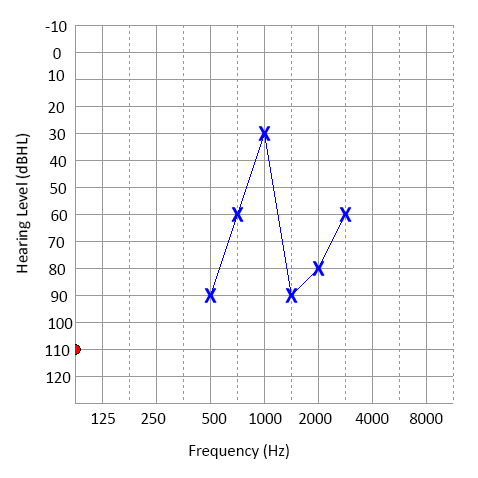
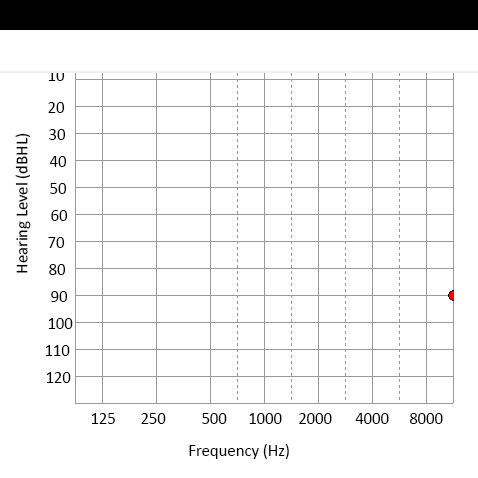
added update feature completely

diff --git a/template/export.html b/template/export.html
@@ -151,11 +151,11 @@
       <div class="personal-details">
         <div class="row-1">
           <div>Name:</div>
-          <div class="values">sdfsaf</div>
+          <div class="values">Himanshu</div>
           <div>Age/Gender:</div>
-          <div class="values">dsopfjk - fasdfj</div>
+          <div class="values">0 - fasdfj</div>
           <div>Date:</div>
-          <div class="values">2021-01-05</div>
+          <div class="values">2021-01-06</div>
           <div>Case No:</div>
           <div class="values">1</div>
         </div>
@@ -187,8 +187,8 @@
                 <td>Left<br />&nbsp;</td>
               </tr>
               <tr>
-                <td rowspan="2">dsaJF</td>
-                <td rowspan="2">hsuidhg</td>
+                <td rowspan="2">0</td>
+                <td rowspan="2">0</td>
               </tr>
             </table>
           </div>
@@ -202,13 +202,13 @@
               </tr>
               <tr>
                 <td>Rinne</td>
-                <td>quhfe</td>
-                <td>u</td>
+                <td>0</td>
+                <td>0</td>
               </tr>
               <tr>
                 <td>Weber</td>
-                <td>d</td>
-                <td>das</td>
+                <td>0</td>
+                <td>0</td>
               </tr>
             </table>
           </div>
@@ -224,17 +224,17 @@
               </tr>
               <tr>
                 <td>Right</td>
-                <td>das</td>
-                <td>da</td>
-                <td>dasd</td>
-                <td>dasd</td>
+                <td>0</td>
+                <td>0</td>
+                <td>00</td>
+                <td>00</td>
               </tr>
               <tr>
                 <td>Left</td>
-                <td>dq</td>
-                <td>da</td>
+                <td>0</td>
+                <td>0</td>
                 <td>vl-wrs^</td>
-                <td>da</td>
+                <td>00</td>
               </tr>
             </table>
           </div>

diff --git a/main.py b/main.py
@@ -9,6 +9,7 @@ from selenium import webdriver
 from selenium.webdriver.common.keys import Keys
 import mysql.connector
 import json
+import time
 
 conn = mysql.connector.connect(host='localhost', user='root', password='', database='ascending_audiology')
 cursor = conn.cursor()
@@ -194,18 +195,28 @@ def MainWindow(opened=False, openedData={}):
     ov_size = (6, 6)
 
 
-    for i in range(0, Y, GRID):
+    for i in range(0, Y+GRID, GRID):
         c.create_line(0, i, X, i, fill='#999')
-    for i in range(0, X, GRID):
-        if (i%2==0 and i != 0):
+    for i in range(0, X+GRID, GRID):
+        if (i % 2 == 0 and i != 0):
+            if i < 150:
+                continue
+            if i > 350:
+                c.create_line(i, 0, i, Y, fill="#999")
+                continue
             c.create_line(i, 0, i, Y, dash=(1,1), fill='#999')
         else:
             c.create_line(i, 0, i, Y, fill='#999')
 
-    for i in range(0, Y+GRID, GRID):
+    for i in range(0, Y + GRID, GRID):
         c2.create_line(0, i, X, i, fill='#999')
     for i in range(0, X+GRID, GRID):
         if (i%2==0 and i != 0):
+            if i < 150:
+                continue
+            if i > 350:
+                c2.create_line(i, 0, i, Y, fill="#999")
+                continue
             c2.create_line(i, 0, i, Y, dash=(1,1), fill='#999')
         else:
             c2.create_line(i, 0, i, Y, fill='#999')
@@ -574,6 +585,8 @@ def MainWindow(opened=False, openedData={}):
 
 
     def take_ss():
+        my_canvas.yview_moveto(float(0))
+        time.sleep(2)
         box = (le_graph_frame.winfo_rootx(),le_graph_frame.winfo_rooty(),le_graph_frame.winfo_rootx()+le_graph_frame.winfo_width(),le_graph_frame.winfo_rooty() + le_graph_frame.winfo_height())
         box2 = (re_graph_frame.winfo_rootx(), re_graph_frame.winfo_rooty(), re_graph_frame.winfo_rootx() + re_graph_frame.winfo_width(), re_graph_frame.winfo_rooty() + re_graph_frame.winfo_height())
         c.itemconfigure('le_point', state='hidden')
@@ -748,7 +761,7 @@ def MainWindow(opened=False, openedData={}):
     curr_date = datetime.today().strftime('%Y-%m-%d')
 
     def submit_form():
-        take_ss()
+        take_ss()   
         with open('template/pdf.html', 'r') as f:
             html_file = f.read()
         html_file = html_file.replace('^name^', name.get())
@@ -787,14 +800,63 @@ def MainWindow(opened=False, openedData={}):
         driver.get('E:\\projects\\ascending_audiology\\template\\export.html')
         driver.maximize_window()
         driver.execute_script('window.print()')
+        # img = Image.open(BytesIO(driver.find_element_by_tag_name('body').screenshot_as_png))
+        # img.save('filename.pdf', "PDF", quality=100)
+    
+    def update_form():
+        take_ss()   
+        with open('template/pdf.html', 'r') as f:
+            html_file = f.read()
+        html_file = html_file.replace('^name^', name.get())
+        html_file = html_file.replace('^age^', age.get())
+        html_file = html_file.replace('^gender^', gender.get())
+        html_file = html_file.replace('^date^', str(curr_date))
+        try:
+            html_file = html_file.replace('^case^', str(cursor.lastrowid + 1))
+        except:
+            html_file = html_file.replace('^case^', str(1))
+        html_file = html_file.replace('^complaints^', complaints.get())
+        html_file = html_file.replace('^comments^', comments.get())
+        html_file = html_file.replace('^r-oto^', oto_right.get())
+        html_file = html_file.replace('^l-oto^', oto_left.get())
+        html_file = html_file.replace('^r-rennie^', tfr_right.get())
+        html_file = html_file.replace('^l-rennie^', tfr_left.get())
+        html_file = html_file.replace('^r-weber^', tfw_right.get())
+        html_file = html_file.replace('^l-weber^', tfw_left.get())
+        html_file = html_file.replace('^r-sat^', sa_right_sat.get())
+        html_file = html_file.replace('^l-sat^', sa_left_sat.get())
+        html_file = html_file.replace('^r-srt^', sa_right_srt.get())
+        html_file = html_file.replace('^l-srt^', sa_left_srt.get())
+        html_file = html_file.replace('^r-wrs^', sa_right_wrs.get())
+        html_file = html_file.replace('^l-wrs^', sa_left_wrs.get())
+        html_file = html_file.replace('^r-ulc^', sa_right_wrs.get())
+        html_file = html_file.replace('^l-ulc^', sa_left_wrs.get())
+        html_file = html_file.replace('^right-ear^', right_ear.get())
+        html_file = html_file.replace('^left-ear^', left_ear.get())
+        html_file = html_file.replace('^reccomendations^', rec.get())
+        with open('template/export.html', 'w') as f:
+            f.write(html_file)
+        insert_data_list = [name.get(), age.get(), gender.get(), str(curr_date), complaints.get(), json.dumps(points), comments.get(), oto_right.get(), oto_left.get(), tfr_right.get(), tfr_left.get(), tfw_right.get(), tfw_left.get(), sa_right_sat.get(), sa_left_sat.get(), sa_right_srt.get(), sa_left_srt.get(), sa_right_wrs.get(), sa_left_wrs.get(), sa_right_ulc.get(), sa_left_ulc.get(), right_ear.get(), left_ear.get(), rec.get(), int(the_case[0])]
+        cursor.execute("UPDATE `cases` SET `name` = %s, `age` = %s, `gender` = %s, `date` = %s, `complaints` = %s, `graphs` = %s, `comments` = %s, `r-oto` = %s, `l-oto` = %s, `r-rennie` = %s, `l-rennie` = %s, `r-weber` = %s, `l-weber` = %s, `r-sat` = %s, `l-sat` = %s, `r-srt` = %s, `l-srt` = %s, `r-wrs` = %s, `l-wrs` = %s, `r-ulc` = %s, `l-ulc` = %s, `right-ear` = %s, `left-ear` = %s, `recommendation` = %s WHERE `case_no` = %s", insert_data_list)
+        conn.commit()
+        driver = webdriver.Chrome('chromewebdriver.exe')
+        driver.get('E:\\projects\\ascending_audiology\\template\\export.html')
+        driver.maximize_window()
+        driver.execute_script('window.print()')
         img = Image.open(BytesIO(driver.find_element_by_tag_name('body').screenshot_as_png))
         img.save('filename.pdf', "PDF", quality=100)
+        pass
 
     submit = ttk.Frame(window)
     submit.pack(padx=20)
 
-    submit_btn = Button(submit, text="Submit", command=submit_form)
-    submit_btn.grid(row=0, column=0, padx=10, pady=10)
+    if opened:
+        update_btn = Button(submit, text="Update", command=update_form)
+        update_btn.grid(row=0, column=0, padx=10, pady=10)
+    else:
+        submit_btn = Button(submit, text="Submit", command=submit_form)
+        submit_btn.grid(row=0, column=0, padx=10, pady=10)
+
 
 
     # For Opened Cases
